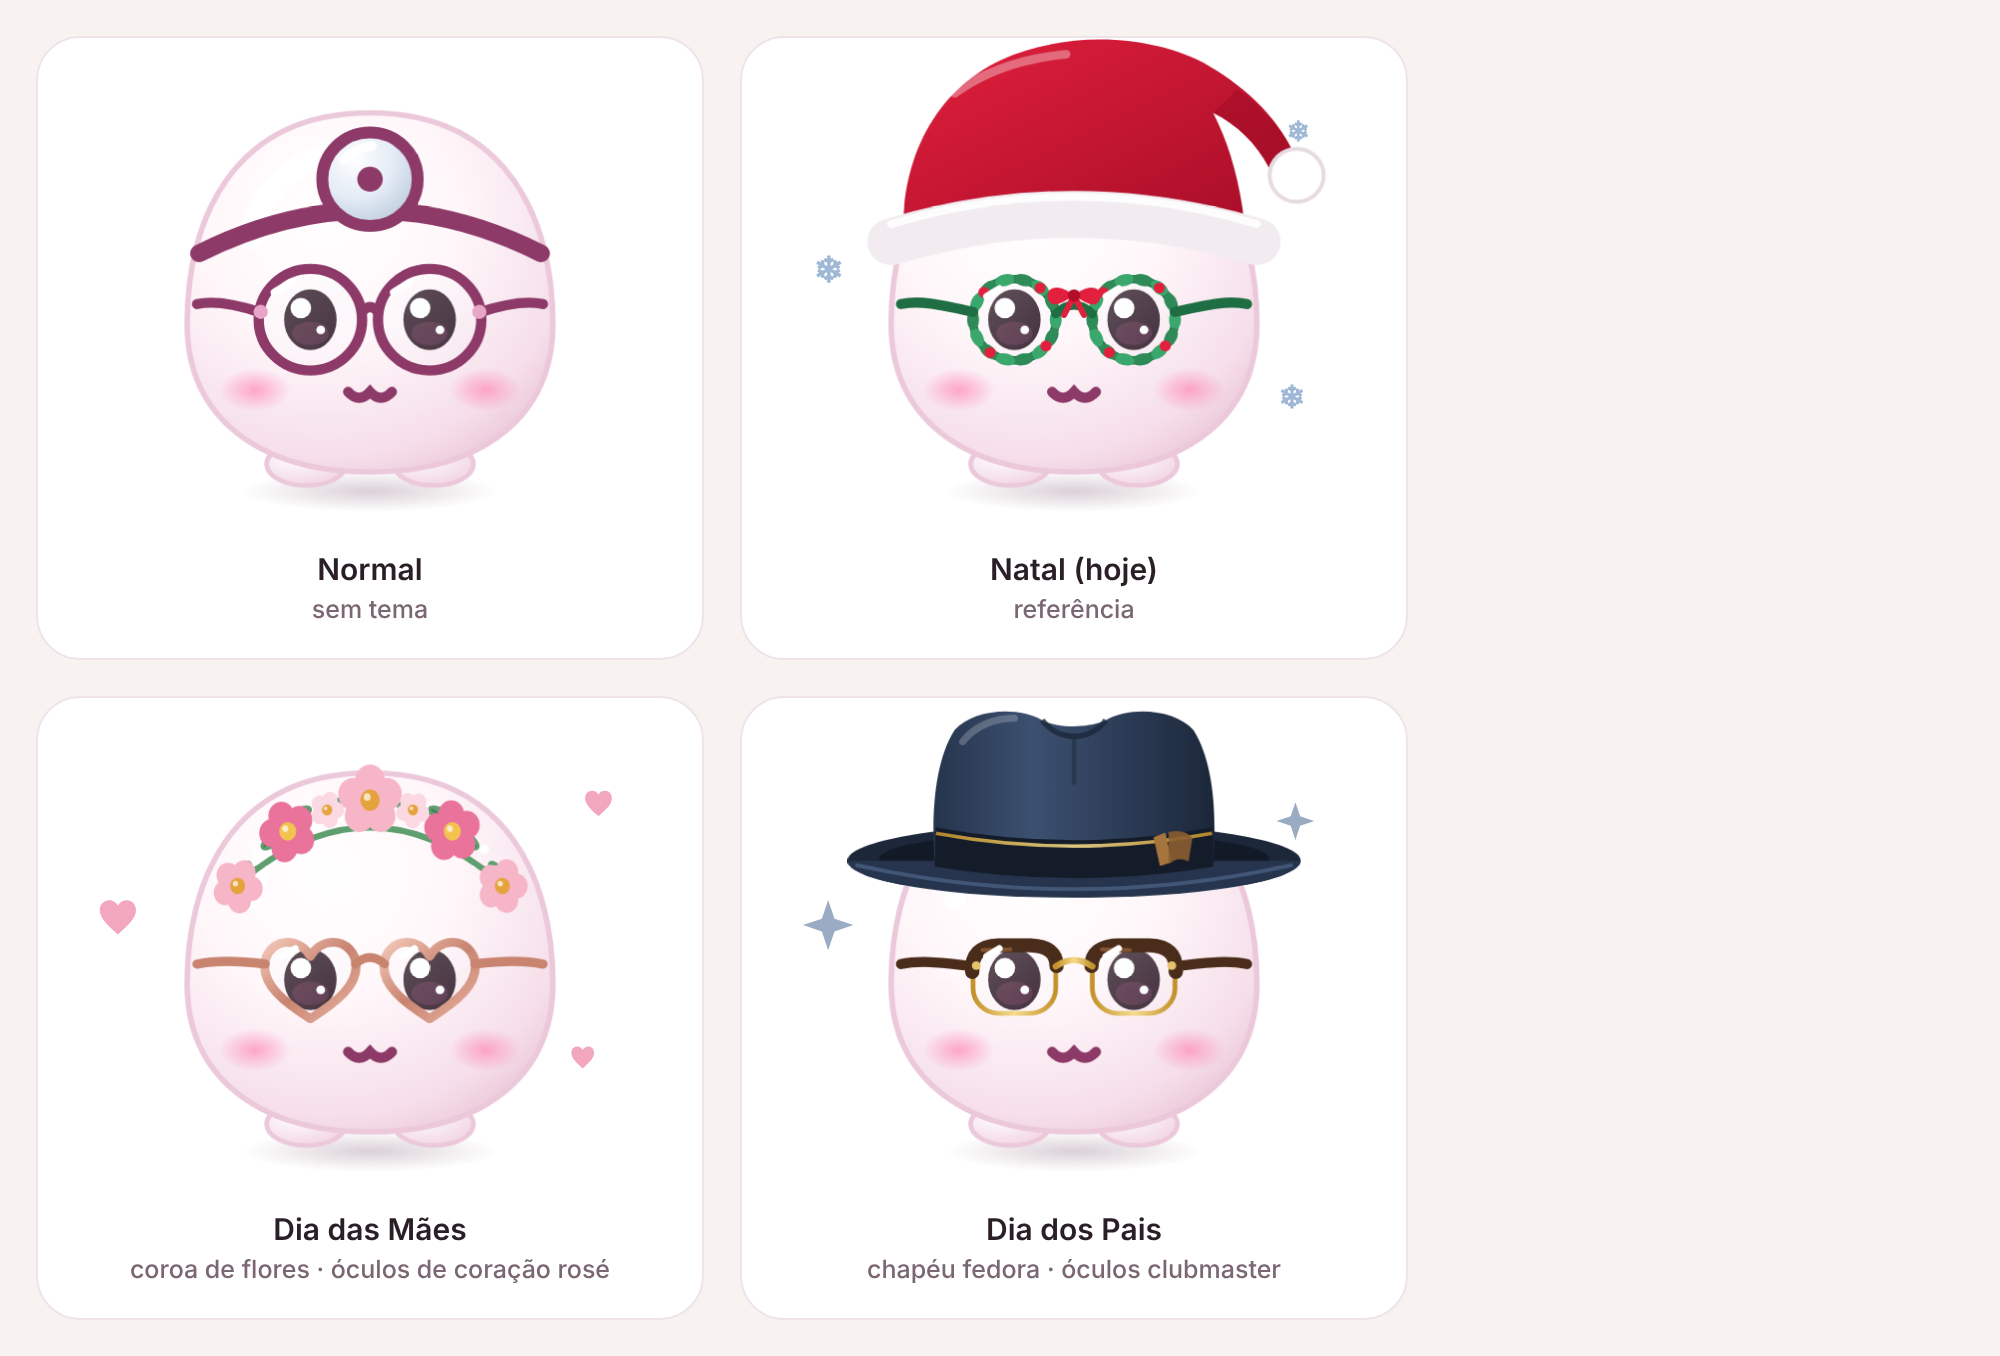
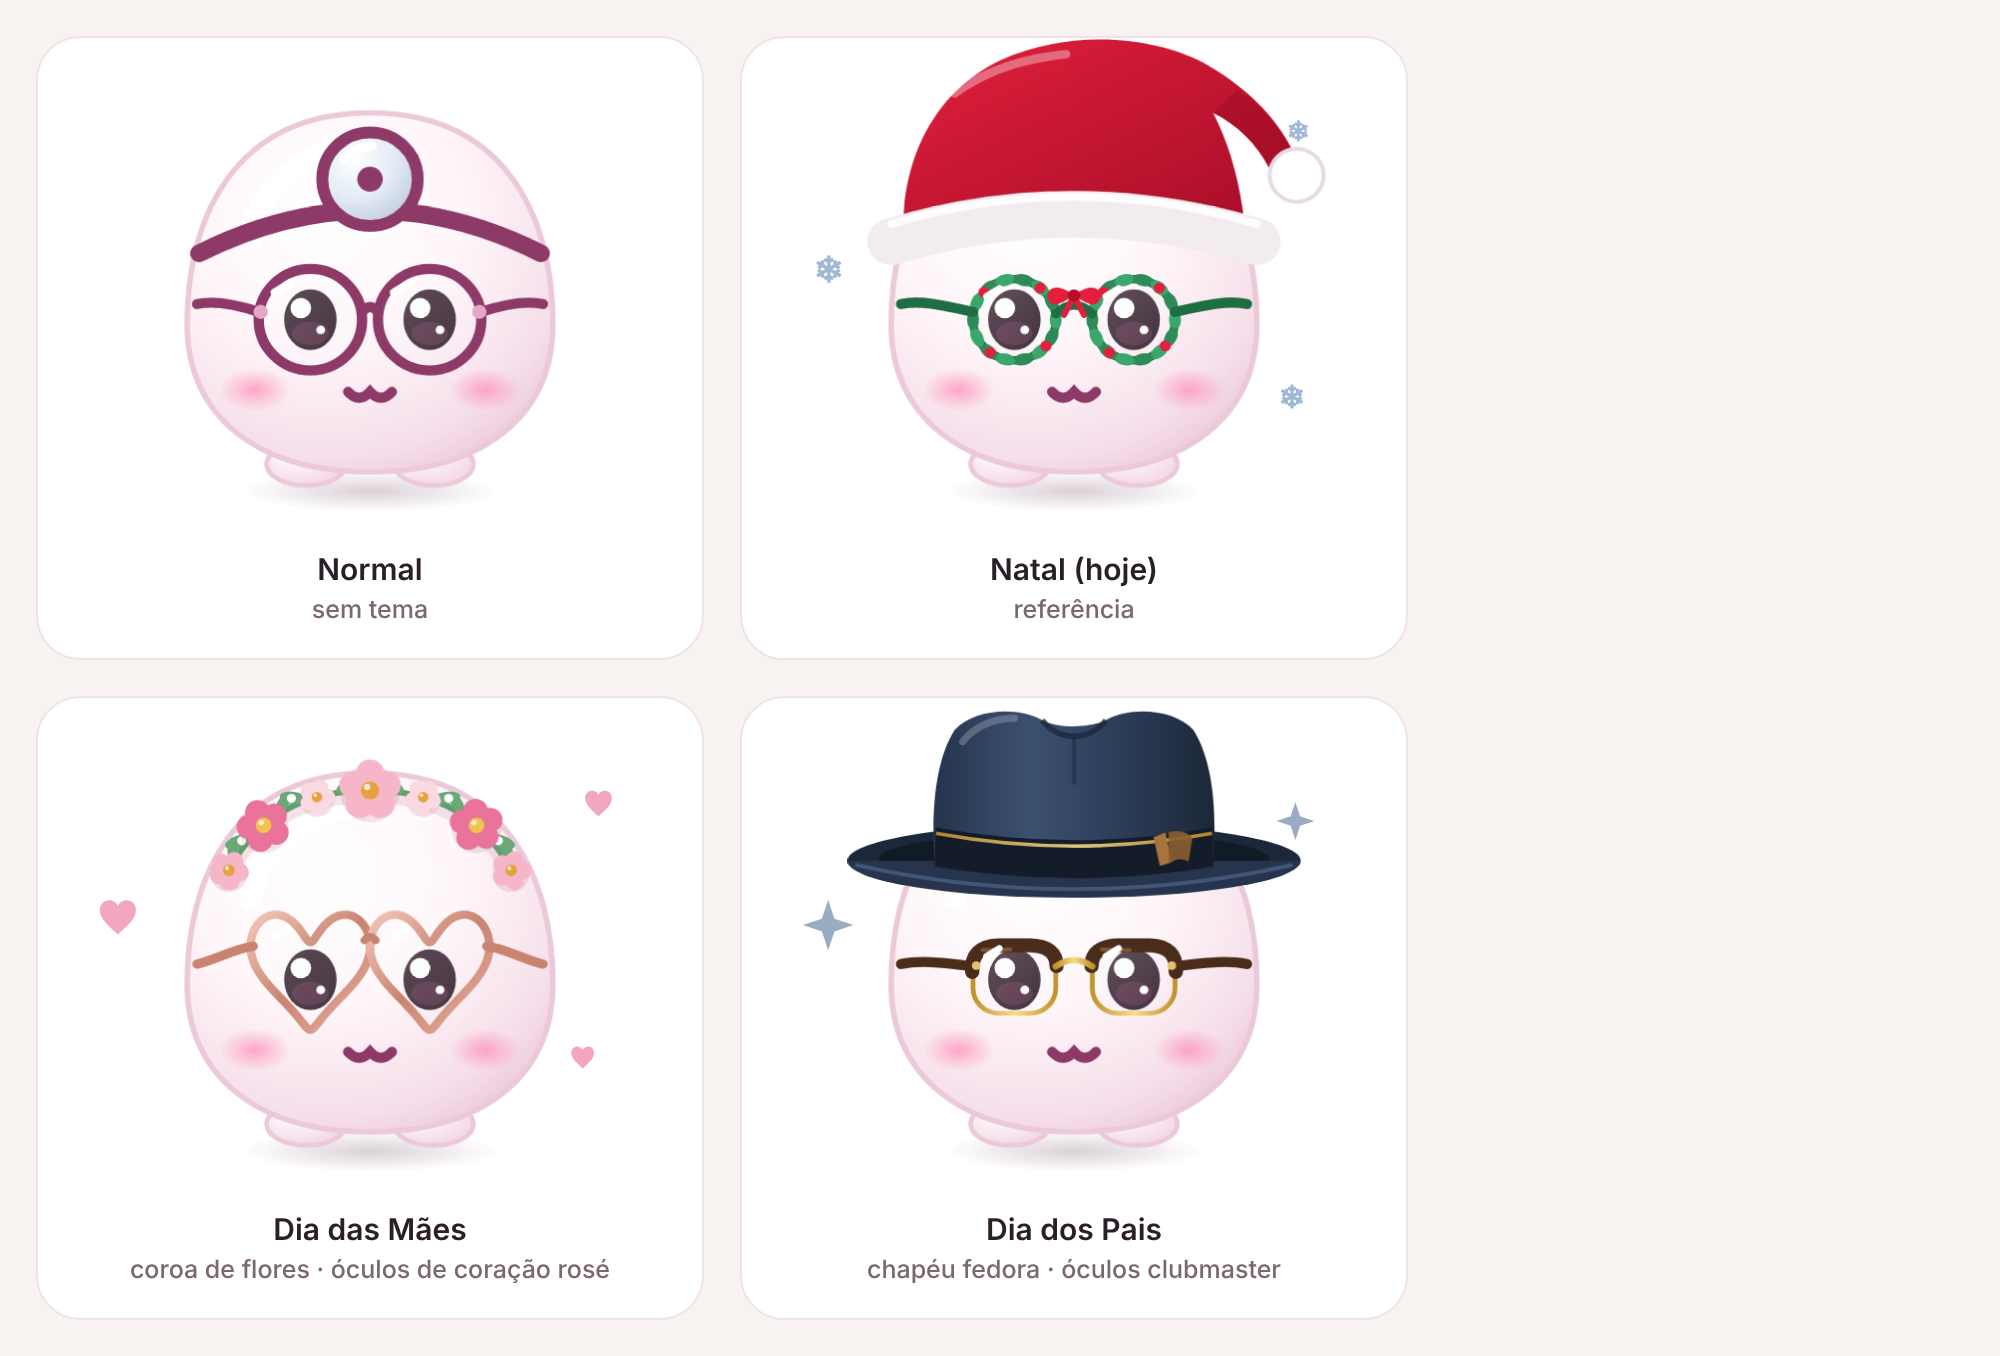
Esboço S135b (ajustes Dia das Mães)
Claude-Session: https://claude.ai/code/session_01Vj5GPR2QjandaFr6ascRKC

Changed region(s): [[0.093, 0.5575, 0.279, 0.7743]]

diff --git a/work/s135/maes.js b/work/s135/maes.js
@@ -1,0 +1,19 @@
+var G={"h45": "M45.00 73.40 L45.18 73.37 L45.36 73.27 L45.55 73.11 L45.75 72.90 L45.96 72.62 L46.19 72.30 L46.44 71.93 L46.70 71.53 L47.00 71.09 L47.32 70.64 L47.66 70.16 L48.03 69.69 L48.43 69.21 L48.86 68.75 L49.31 68.31 L49.79 67.89 L50.29 67.51 L50.81 67.18 L51.36 66.89 L51.91 66.66 L52.48 66.49 L53.06 66.38 L53.64 66.34 L54.22 66.36 L54.80 66.46 L55.37 66.62 L55.93 66.85 L56.47 67.15 L56.98 67.51 L57.47 67.93 L57.93 68.41 L58.35 68.94 L58.73 69.52 L59.07 70.14 L59.36 70.79 L59.60 71.47 L59.79 72.19 L59.93 72.92 L60.01 73.66 L60.04 74.42 L60.01 75.18 L59.93 75.95 L59.79 76.71 L59.60 77.48 L59.36 78.23 L59.07 78.98 L58.73 79.71 L58.35 80.44 L57.93 81.15 L57.47 81.85 L56.98 82.54 L56.47 83.22 L55.93 83.89 L55.37 84.55 L54.80 85.19 L54.22 85.83 L53.64 86.46 L53.06 87.08 L52.48 87.70 L51.91 88.30 L51.36 88.89 L50.81 89.48 L50.29 90.05 L49.79 90.61 L49.31 91.15 L48.86 91.68 L48.43 92.19 L48.03 92.68 L47.66 93.14 L47.32 93.58 L47.00 93.98 L46.70 94.35 L46.44 94.69 L46.19 94.99 L45.96 95.24 L45.75 95.45 L45.55 95.62 L45.36 95.74 L45.18 95.82 L45.00 95.84 L44.82 95.82 L44.64 95.74 L44.45 95.62 L44.25 95.45 L44.04 95.24 L43.81 94.99 L43.56 94.69 L43.30 94.35 L43.00 93.98 L42.68 93.58 L42.34 93.14 L41.97 92.68 L41.57 92.19 L41.14 91.68 L40.69 91.15 L40.21 90.61 L39.71 90.05 L39.19 89.48 L38.64 88.89 L38.09 88.30 L37.52 87.70 L36.94 87.08 L36.36 86.46 L35.78 85.83 L35.20 85.19 L34.63 84.55 L34.07 83.89 L33.53 83.22 L33.02 82.54 L32.53 81.85 L32.07 81.15 L31.65 80.44 L31.27 79.71 L30.93 78.98 L30.64 78.23 L30.40 77.48 L30.21 76.71 L30.07 75.95 L29.99 75.18 L29.96 74.42 L29.99 73.66 L30.07 72.92 L30.21 72.19 L30.40 71.47 L30.64 70.79 L30.93 70.14 L31.27 69.52 L31.65 68.94 L32.07 68.41 L32.53 67.93 L33.02 67.51 L33.53 67.15 L34.07 66.85 L34.63 66.62 L35.20 66.46 L35.78 66.36 L36.36 66.34 L36.94 66.38 L37.52 66.49 L38.09 66.66 L38.64 66.89 L39.19 67.18 L39.71 67.51 L40.21 67.89 L40.69 68.31 L41.14 68.75 L41.57 69.21 L41.97 69.69 L42.34 70.16 L42.68 70.64 L43.00 71.09 L43.30 71.53 L43.56 71.93 L43.81 72.30 L44.04 72.62 L44.25 72.90 L44.45 73.11 L44.64 73.27 L44.82 73.37Z", "h75": "M75.00 73.40 L75.18 73.37 L75.36 73.27 L75.55 73.11 L75.75 72.90 L75.96 72.62 L76.19 72.30 L76.44 71.93 L76.70 71.53 L77.00 71.09 L77.32 70.64 L77.66 70.16 L78.03 69.69 L78.43 69.21 L78.86 68.75 L79.31 68.31 L79.79 67.89 L80.29 67.51 L80.81 67.18 L81.36 66.89 L81.91 66.66 L82.48 66.49 L83.06 66.38 L83.64 66.34 L84.22 66.36 L84.80 66.46 L85.37 66.62 L85.93 66.85 L86.47 67.15 L86.98 67.51 L87.47 67.93 L87.93 68.41 L88.35 68.94 L88.73 69.52 L89.07 70.14 L89.36 70.79 L89.60 71.47 L89.79 72.19 L89.93 72.92 L90.01 73.66 L90.04 74.42 L90.01 75.18 L89.93 75.95 L89.79 76.71 L89.60 77.48 L89.36 78.23 L89.07 78.98 L88.73 79.71 L88.35 80.44 L87.93 81.15 L87.47 81.85 L86.98 82.54 L86.47 83.22 L85.93 83.89 L85.37 84.55 L84.80 85.19 L84.22 85.83 L83.64 86.46 L83.06 87.08 L82.48 87.70 L81.91 88.30 L81.36 88.89 L80.81 89.48 L80.29 90.05 L79.79 90.61 L79.31 91.15 L78.86 91.68 L78.43 92.19 L78.03 92.68 L77.66 93.14 L77.32 93.58 L77.00 93.98 L76.70 94.35 L76.44 94.69 L76.19 94.99 L75.96 95.24 L75.75 95.45 L75.55 95.62 L75.36 95.74 L75.18 95.82 L75.00 95.84 L74.82 95.82 L74.64 95.74 L74.45 95.62 L74.25 95.45 L74.04 95.24 L73.81 94.99 L73.56 94.69 L73.30 94.35 L73.00 93.98 L72.68 93.58 L72.34 93.14 L71.97 92.68 L71.57 92.19 L71.14 91.68 L70.69 91.15 L70.21 90.61 L69.71 90.05 L69.19 89.48 L68.64 88.89 L68.09 88.30 L67.52 87.70 L66.94 87.08 L66.36 86.46 L65.78 85.83 L65.20 85.19 L64.63 84.55 L64.07 83.89 L63.53 83.22 L63.02 82.54 L62.53 81.85 L62.07 81.15 L61.65 80.44 L61.27 79.71 L60.93 78.98 L60.64 78.23 L60.40 77.48 L60.21 76.71 L60.07 75.95 L59.99 75.18 L59.96 74.42 L59.99 73.66 L60.07 72.92 L60.21 72.19 L60.40 71.47 L60.64 70.79 L60.93 70.14 L61.27 69.52 L61.65 68.94 L62.07 68.41 L62.53 67.93 L63.02 67.51 L63.53 67.15 L64.07 66.85 L64.63 66.62 L65.20 66.46 L65.78 66.36 L66.36 66.34 L66.94 66.38 L67.52 66.49 L68.09 66.66 L68.64 66.89 L69.19 67.18 L69.71 67.51 L70.21 67.89 L70.69 68.31 L71.14 68.75 L71.57 69.21 L71.97 69.69 L72.34 70.16 L72.68 70.64 L73.00 71.09 L73.30 71.53 L73.56 71.93 L73.81 72.30 L74.04 72.62 L74.25 72.90 L74.45 73.11 L74.64 73.27 L74.82 73.37Z", "band": [[23.59519391534525, 56.95721085436314, -66.17916608766892], [24.505437787242595, 55.01656010417864, -63.536984512364356], [25.49617400668557, 53.14048021677664, -60.759601934971734], [26.568529587877258, 51.33327394043404, -57.84527640722645], [27.72375922542618, 49.598902529786294, -54.79483942430104], [28.963336595273645, 47.94097392679311, -51.612221883617494], [30.289056385256004, 46.36275686922756, -48.30492141218821], [31.703138032416852, 44.86722847107095, -44.88434080701588], [33.20831813393788, 43.45715981038464, -41.36592110772595], [34.807915857123085, 42.13523866340932, -37.76900015790824], [36.50585585246547, 40.90422132416872, -34.11635224324252], [38.30663722312447, 39.76709800004823, -30.433406010182345], [40.21524499391338, 38.72725082322358, -26.74718979113407], [42.237010744096324, 37.78858222575839, -23.085103639806526], [44.37743889565649, 36.95559535484828, -19.47365182625631], [46.642021617716324, 36.23341663392588, -15.937277689229578], [49.03606647342969, 35.62776113137445, -12.497421998165372], [51.564556710862774, 35.14485101569819, -9.171882880976087], [54.2320561911114, 34.7913035698282, -5.974502699742453], [57.042661978587766, 34.574006985908994, -2.915158730528043], [60.0, 34.5, 0.0], [62.957338021412234, 34.574006985908994, 2.9151587305280433], [65.7679438088886, 34.79130356982821, 5.974502699742463], [68.43544328913721, 35.14485101569818, 9.171882880976074], [70.9639335265703, 35.62776113137445, 12.497421998165372], [73.35797838228369, 36.23341663392588, 15.937277689229578], [75.62256110434352, 36.955595354848285, 19.473651826256322], [77.76298925590368, 37.78858222575839, 23.085103639806526], [79.7847550060866, 38.727250823223585, 26.747189791134073], [81.69336277687555, 39.76709800004823, 30.433406010182367], [83.49414414753453, 40.90422132416872, 34.11635224324252], [85.19208414287692, 42.13523866340931, 37.76900015790824], [86.79168186606212, 43.45715981038464, 41.36592110772594], [88.29686196758314, 44.86722847107095, 44.88434080701589], [89.71094361474397, 46.36275686922755, 48.30492141218819], [91.03666340472637, 47.94097392679311, 51.612221883617494], [92.27624077457382, 49.598902529786294, 54.79483942430105], [93.43147041212276, 51.33327394043405, 57.84527640722645], [94.50382599331442, 53.140480216776616, 60.75960193497172], [95.4945622127574, 55.01656010417864, 63.53698451236437], [96.40480608465475, 56.95721085436314, 66.17916608766892]], "xr": 58.28, "wy": 74.42, "xl": 29.96};
+(function(){
+const B=G.band,pth=(o)=>'M'+B.map(p=>(p[0]).toFixed(2)+' '+(p[1]+o).toFixed(2)).join(' L');
+function flor(x,y,r,c,c2,rot){let p='';for(let i=0;i<5;i++){const a=(rot+i*72)*Math.PI/180;p+=`<circle cx="${(x+Math.cos(a)*r*.6).toFixed(2)}" cy="${(y+Math.sin(a)*r*.6).toFixed(2)}" r="${(r*.5).toFixed(2)}" fill="${c}"/>`}
+ return `<g><circle cx="${x}" cy="${y+.8}" r="${r*1.02}" fill="#b56a86" opacity=".18"/>${p}<circle cx="${x}" cy="${y}" r="${(r*.32).toFixed(2)}" fill="${c2}"/><circle cx="${(x-r*.1).toFixed(2)}" cy="${(y-r*.12).toFixed(2)}" r="${(r*.11).toFixed(2)}" fill="#fff" opacity=".75"/></g>`}
+function folha(i,lado,len){const [x,y,a]=B[i];const r=a+(lado>0?-28:28)+ (lado>0?0:180);const cx=x+Math.cos(r*Math.PI/180)*len*.55,cy=y+Math.sin(r*Math.PI/180)*len*.55;
+ return `<ellipse cx="${cx.toFixed(2)}" cy="${cy.toFixed(2)}" rx="${len*.55}" ry="${len*.24}" transform="rotate(${r.toFixed(1)} ${cx.toFixed(2)} ${cy.toFixed(2)})" fill="#6aa877"/>`}
+let s='<path d="'+pth(1.6)+'" stroke="#c9879f" stroke-width="3.2" fill="none" opacity=".22" stroke-linecap="round"/>';
+s+='<path d="'+pth(0)+'" stroke="#5f9e6e" stroke-width="1.5" fill="none" stroke-linecap="round"/>';
+[[2,1,6],[6,-1,6.5],[10,1,6],[14,-1,6.5],[17,1,5.5],[23,-1,5.5],[26,1,6.5],[30,-1,6],[34,1,6.5],[38,-1,6]].forEach(([i,l,n])=>s+=folha(i,l,n));
+s+='<g fill="#fff">'+[4,12,19,21,28,36].map(i=>`<circle cx="${B[i][0].toFixed(2)}" cy="${(B[i][1]-2.2).toFixed(2)}" r="1.15"/>`).join('')+'</g>';
+const F=[[1,4.6,'#f6b6c8','#e6a23c',10],[8,6.2,'#e9739a','#f3c34f',30],[15,4.2,'#fbd9e3','#e6a23c',0],[20,7.2,'#f6b6c8','#e6a23c',-18],[25,4.2,'#fbd9e3','#e6a23c',20],[32,6.2,'#e9739a','#f3c34f',50],[39,4.6,'#f6b6c8','#e6a23c',0]];
+F.forEach(([i,r,c,c2,rot])=>s+=flor(+B[i][0].toFixed(2),+B[i][1].toFixed(2),r,c,c2,rot));
+TEMA_M.maes.fr=s;
+const ROSE='<defs><linearGradient id="lftrs" x1="0" y1="0" x2="1" y2="1"><stop offset="0" stop-color="#f3c7b8"/><stop offset=".5" stop-color="#c98470"/><stop offset="1" stop-color="#e9b3a2"/></linearGradient></defs>';
+TEMA_M.maes.ocl=ROSE+`<path d="${G.h45}" fill="url(#lfmlz)" stroke="url(#lftrs)" stroke-width="2.1" stroke-linejoin="round"/><path d="${G.h75}" fill="url(#lfmlz)" stroke="url(#lftrs)" stroke-width="2.1" stroke-linejoin="round"/>`+
+ `<path d="M58.6 72.9 Q60 71.2 61.4 72.9" stroke="#c98470" stroke-width="2" fill="none" stroke-linecap="round"/><path d="M30.6 74.4 C26 75.0 21 78 16.5 79" fill="none" stroke="#c98470" stroke-width="2.4" stroke-linecap="round"/><path d="M89.4 74.4 C94 75.0 99 78 103.5 79" fill="none" stroke="#c98470" stroke-width="2.4" stroke-linecap="round"/>`+
+ '<path d="M36 72 l3.2 -2 M66 72 l3.2 -2" stroke="#fff" stroke-width="1.7" stroke-linecap="round"/>';
+})();

diff --git a/work/s135/p.html b/work/s135/p.html
@@ -1,5 +1,5 @@
 <!doctype html><meta charset="utf-8"><style>body{margin:0;background:#f8f2f0;font:600 15px Inter,system-ui;color:#2a1f27}.w{display:flex;gap:18px;padding:18px;flex-wrap:wrap}.c{width:300px;background:#fff;border:1px solid #efe3ea;border-radius:22px;padding:16px;text-align:center}.m{width:260px;height:240px;margin:0 auto;position:relative}.m .mochi{width:100%;height:100%}.c small{display:block;font-weight:500;color:#7a6772;margin-top:4px}</style>
-<div class="w" id="w"></div><script src="base.js"></script><script src="novos.js"></script><script>
+<div class="w" id="w"></div><script src="base.js"></script><script src="novos.js"></script><script src="maes.js"></script><script>
 const st=document.createElement('style');st.textContent=MOCHI_CSS;document.head.appendChild(st);
 [['x','Normal','sem tema'],['natal','Natal (hoje)','referência'],['maes','Dia das Mães','coroa de flores · óculos de coração rosé'],['pais','Dia dos Pais','chapéu fedora · óculos clubmaster']].forEach(([k,t,d])=>{document.documentElement.setAttribute('data-ev',k);const c=document.createElement('div');c.className='c';c.innerHTML='<div class="m"><div class="mochi">'+temaSvg(MOCHI_SVG).replace(/lftcc/g,'lftcc'+k)+'</div></div>'+t+'<small>'+d+'</small>';w.appendChild(c)});
 </script>

diff --git a/work/s135/gera.py b/work/s135/gera.py
@@ -1,0 +1,48 @@
+import math,json
+def bz(p0,p1,p2,p3,t):
+  u=1-t;return tuple(u**3*a+3*u*u*t*b+3*u*t*t*c+t**3*d for a,b,c,d in zip(p0,p1,p2,p3))
+def bzd(p0,p1,p2,p3,t):
+  u=1-t;return tuple(3*u*u*(b-a)+6*u*t*(c-b)+3*t*t*(d-c) for a,b,c,d in zip(p0,p1,p2,p3))
+L=[(14,84),(14,58),(25,30),(60,30)];R=[(60,30),(95,30),(106,58),(106,84)]
+def pt(s,off):  # s in [-1,1] ; -1 left side at y84, 0 top, 1 right
+  seg,t=(L,1+s) if s<0 else (R,s)
+  x,y=bz(*seg,t);dx,dy=bzd(*seg,t);n=math.hypot(dx,dy);nx,ny=-dy/n,dx/n
+  # inward normal: for clockwise path (left seg goes up), choose pointing to center (60,84)
+  if (60-x)*nx+(84-y)*ny<0:nx,ny=-nx,-ny
+  return x+nx*off,y+ny*off,math.degrees(math.atan2(dy,dx))
+# heart
+def heart(cx,cy,s,sx=None):
+  sx=sx or s
+  P=[]
+  for i in range(120):
+    t=i/120*2*math.pi
+    x=16*math.sin(t)**3;y=13*math.cos(t)-5*math.cos(2*t)-2*math.cos(3*t)-math.cos(4*t)
+    P.append((cx+x*sx,cy-y*s))
+  return P
+def inside(P,x,y):
+  c=False;j=len(P)-1
+  for i in range(len(P)):
+    xi,yi=P[i];xj,yj=P[j]
+    if (yi>y)!=(yj>y) and x<(xj-xi)*(y-yi)/(yj-yi)+xi:c=not c
+    j=i
+  return c
+def ok(P,ex,ey,m):
+  for k in range(72):
+    a=k/72*2*math.pi
+    if not inside(P,ex+(6.6+m)*math.cos(a),ey+(7.8+m)*math.sin(a)):return False
+  return True
+best=None
+for s in [x/100 for x in range(70,130,2)]:
+ for sx in [x/100 for x in range(70,95)]:
+  for dy in [x/10 for x in range(-40,61,2)]:
+    P=heart(45,83+dy,s,sx)
+    if ok(P,45,83,2.0) and max(p[0] for p in P)<58.8:
+      a=s*sx
+      if best is None or a<best[0]:best=(a,s,sx,dy)
+print(best)
+_,s,sx,dy=best
+def hp(cx):
+  P=heart(cx,83+dy,s,sx);return 'M'+' L'.join(f'{x:.2f} {y:.2f}' for x,y in P)+'Z'
+P=heart(45,83+dy,s,sx);print('ytop',min(p[1] for p in P),'ybot',max(p[1] for p in P),'xmax',max(p[0] for p in P))
+band=[pt(-0.62+i*1.24/40,4.5) for i in range(41)]
+json.dump({'h45':hp(45),'h75':hp(75),'band':band,'xr':max(p[0] for p in P)},open('geo.json','w'))

diff --git a/docs/MEMORIA-PROJETO.md b/docs/MEMORIA-PROJETO.md
@@ -1613,3 +1613,4 @@ Decisões do dono sobre a tela Venda confirmada (esboço "venda_confirmada_compr
 - 11/11 03:00 ESBOÇO S134 (work/s134/S134.png, a.html, b.html): Temática = Nova data encontrada + Próximo evento (iguais) + "ESTE MÊS · NOVEMBRO" (só eventos do mês, toda a info, o próximo destacado com fundo suave e etiqueta "próximo") + botão "Ver calendário completo ›"; página Calendário completo = "‹ Temática", faixa de meses Nov…Out (sem evento apagado), quadros por mês com ano, "Data a confirmar" no fim (Crazy Week). Rótulos Automático/Aguardando/Desligado mantidos com largura fixa de 104 px, todos alinhados. Passado some (Halloween reaparece em out/2027). Aguardando.
 - 11/11 02:57 DONO: S134 "perfeito" = APROVADO (não implementar ainda). Próximo tópico: Mochi de Dia das Mães e Dia dos Pais (esboço).
 - 11/11 03:10 ESBOÇO S135 (work/s135/S135.png; novos.js = TEMA_M.maes e TEMA_M.pais no mesmo formato corte/tr/fr/ocl/fundo do S107): Dia das Mães = coroa de flores rosa (sem chapéu, cabeça inteira; espelho e faixa somem como nos outros temas) + óculos de coração rosé + coraçõezinhos no fundo; Dia dos Pais = chapéu fedora azul-marinho com fita dourada e pena + óculos clubmaster (tartaruga em cima, aro dourado) + estrelinhas azul-acinzentadas. Aguardando.
+- 11/11 03:02 DONO S135: coroa "não parece devidamente encaixada" e o óculos de coração "batendo no olho" → pediu ajustes no Dia das Mães. 03:20 ESBOÇO S135b (work/s135/S135b.png, maes.js + geo.json): coroa agora segue o contorno da cabeça (4,5 unidades para dentro, com sombrinha embaixo para assentar), flores maiores no topo e menores nas laterais; corações calculados para o olho caber com folga (nenhum ponto do olho encosta no aro), lóbulos se encostam no meio formando a ponte. Pais sem mudança. Aguardando.
